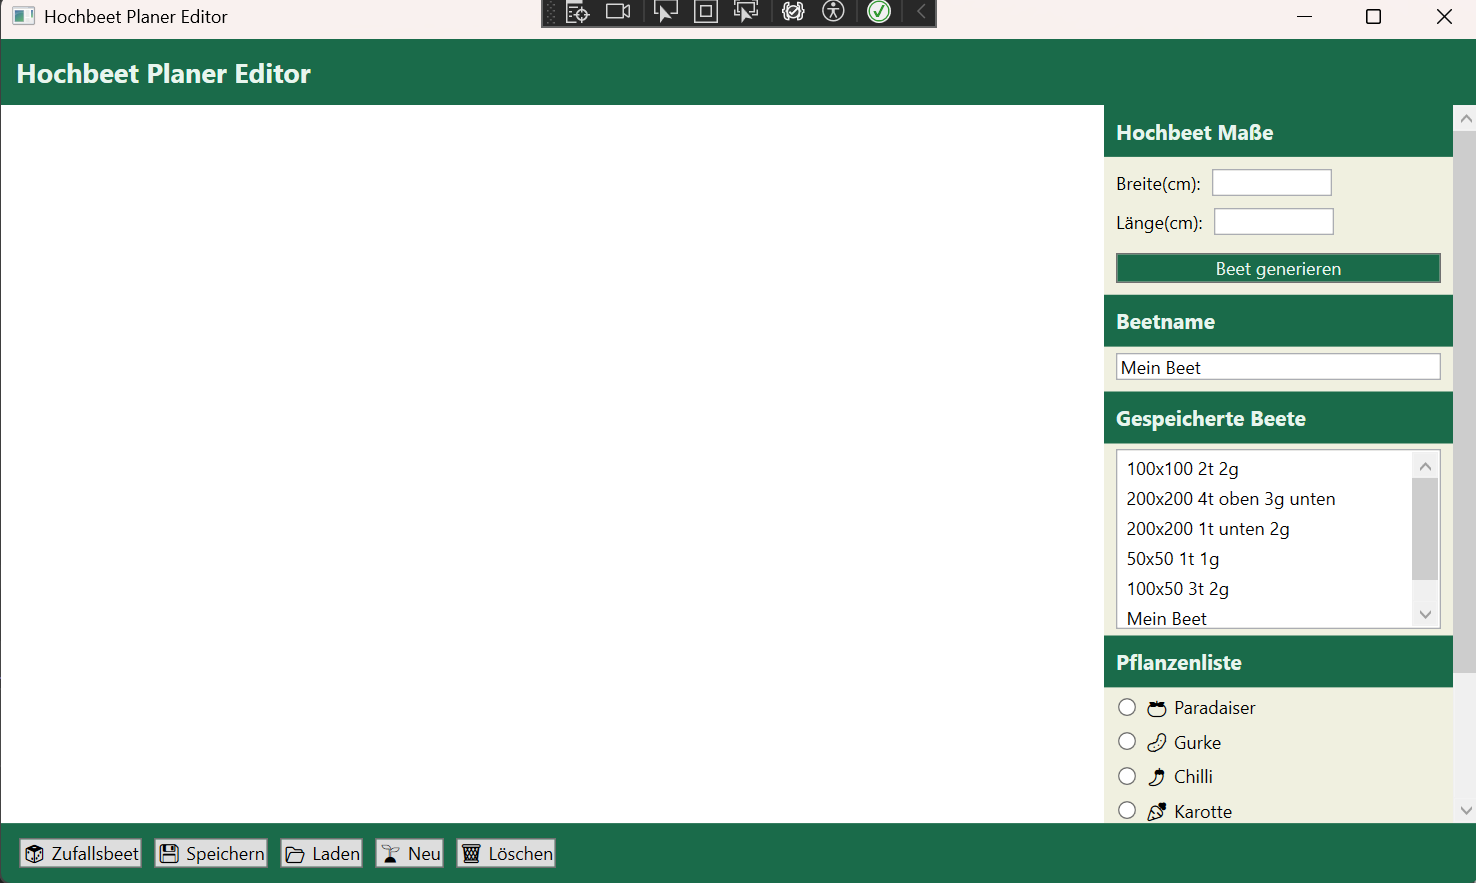
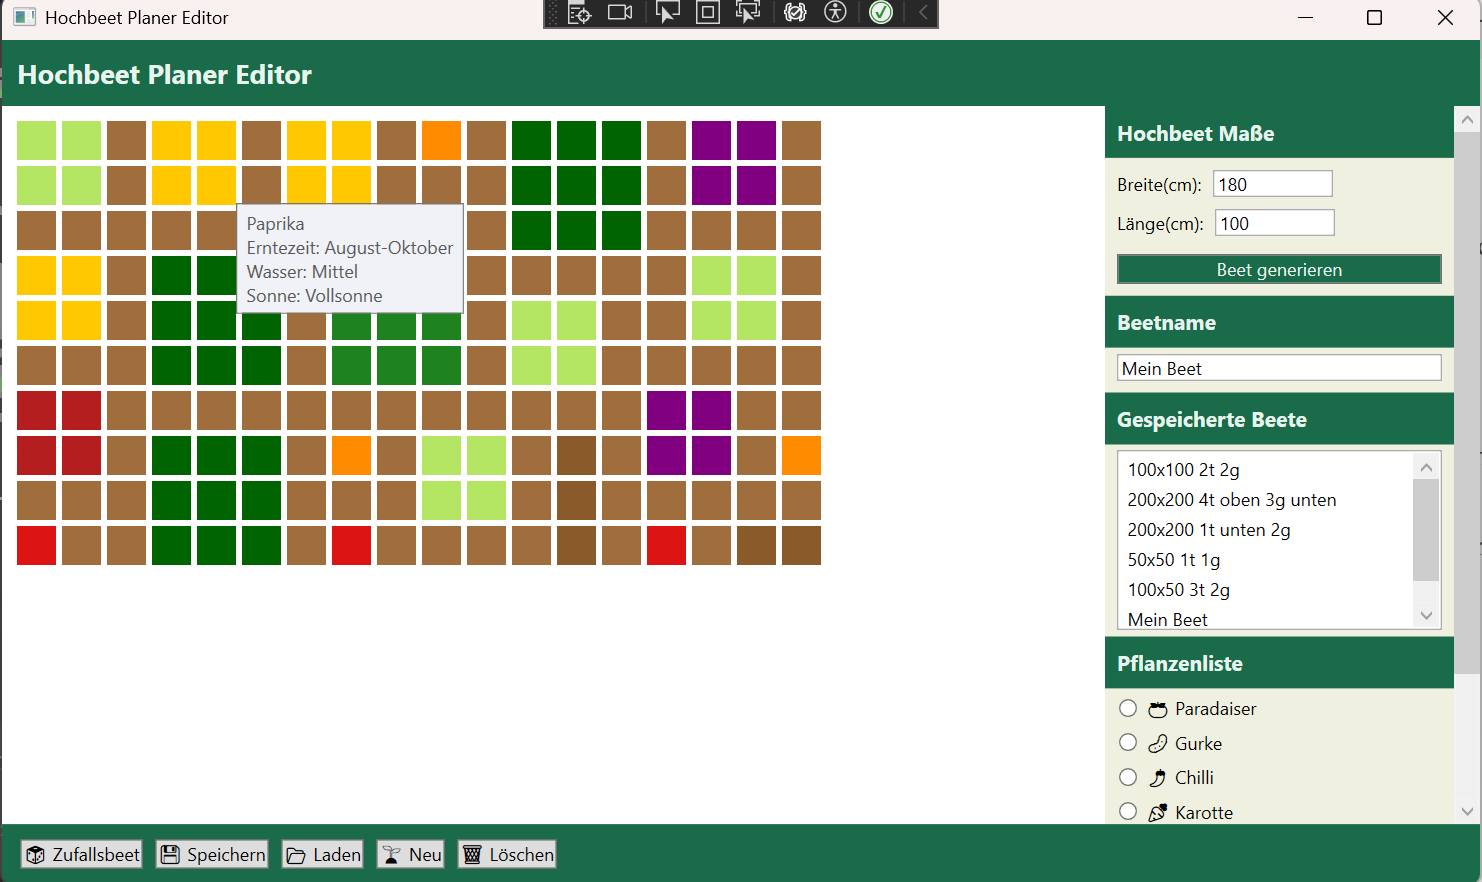
docs: add screenshots and planning sketch

diff --git a/Hochbeet_Planer/MainWindow.xaml b/Hochbeet_Planer/MainWindow.xaml
@@ -84,7 +84,7 @@
                 <Button x:Name="btnZufall" Content="🎲 Zufallsbeet" Margin="4,6,4,6" Click="btnZufall_Click"/>
                 <Button x:Name="btnSpeichern" Content="💾 Speichern" Margin="4,6,4,6" Click="btnSpeichern_Click"/>
                  <Button x:Name="btnLaden" Content="📂 Laden" Margin="4,6,4,6" Click="btnLaden_Click"/>
-                <Button x:Name="btnNeu" Content="🌱 Neu" Margin="4,6,4,6"/>
+                <!--<Button x:Name="btnNeu" Content="🌱 Neu" Margin="4,6,4,6"/>-->
                 <Button x:Name="btnLoeschen" Content="🗑 Löschen" Margin="4,6,4,6" Click="btnLoeschen_Click"/>
             </StackPanel>
         </Grid>